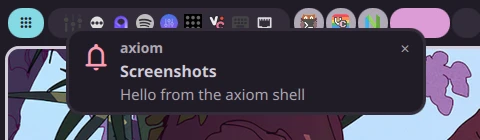
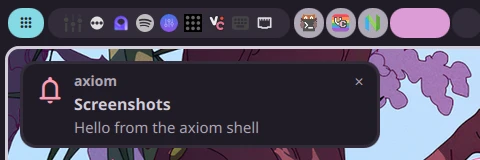
Update photos

diff --git a/shell/Notifications.qml b/shell/Notifications.qml
@@ -1,12 +1,14 @@
 import QtQuick
 import Quickshell
+import Quickshell.Wayland
 
 import qs.services
 import qs.config
 import qs.components.surfaces.notifications
 
-// Stacks incoming notifications as toasts near the top-left of the screen
-// (offset past the bar), driven by NotificationManager.showPopup. Dismissing a toast
+// Stacks incoming notifications as toasts from a corner of the primary
+// monitor's work area (NotificationsConfig), driven by
+// NotificationManager.showPopup. Dismissing a toast
 // only hides it — the notification stays tracked and remains visible/
 // actionable from the bell popout.
 Scope {
@@ -14,8 +16,6 @@ Scope {
 
   property int maxVisibleToasts: 5
   property int stackSpacing: 10
-  property int topOffset: Appearance.screenMargin + 20
-  property int leftOffset: Bar.extent + 20
   property int toastWidth: 360
   property int toastMaxHeight: 220
   property int dismissDuration: 5000
@@ -23,22 +23,50 @@ Scope {
 
   property var activeToasts: []
 
-  // Invisible anchor window the toast PopupWindows position relative to.
+  readonly property var screen: Quickshell.screens.find(s => s.name === General.primaryMonitor) ?? Quickshell.screens[0] ?? null
+
+  // Invisible anchor window the toast PopupWindows position relative to,
+  // in the chosen corner of the work area. Normal exclusion with no zone of
+  // its own keeps it inside the space the bars, the border (and any other
+  // app's panels) reserve, as OverlayPanel does, so the gaps are measured
+  // from whatever is at each edge. A transparent bar reserves Hyprland's
+  // gaps_out less than it draws (see BarPanel) and shows only its widgets,
+  // `inset` inside its window: the gap starts at their inner edge instead.
+  readonly property var _edges: Bar.edgesFor(root.screen)
+  function _edgeGap(side, gap) {
+    const bar = root._edges[side];
+    if (bar?.background !== "transparent")
+      return gap;
+    return gap + (HyprlandManager.gapsOut[side] ?? 0) - (bar.inset ?? 0);
+  }
+
   PanelWindow {
     id: anchorPanel
     visible: true
+    screen: root.screen
 
     implicitWidth: 1
     implicitHeight: 1
 
     anchors {
-      top: true
-      left: true
+      top: NotificationsConfig.top
+      bottom: !NotificationsConfig.top
+      left: NotificationsConfig.left
+      right: !NotificationsConfig.left
+    }
+    margins {
+      top: root._edgeGap("top", NotificationsConfig.gapTop)
+      bottom: root._edgeGap("bottom", NotificationsConfig.gapBottom)
+      left: root._edgeGap("left", NotificationsConfig.gapLeft)
+      right: root._edgeGap("right", NotificationsConfig.gapRight)
     }
 
     color: "transparent"
     focusable: false
-    exclusionMode: ExclusionMode.Ignore
+    WlrLayershell.layer: WlrLayer.Overlay
+    WlrLayershell.namespace: "axiom-notifications"
+    exclusionMode: ExclusionMode.Normal
+    exclusiveZone: 0
 
     // Where NotificationManager renders images to cache them: grabbing
     // needs an item in a window (items may lie outside this 1x1 one)
@@ -59,7 +87,8 @@ Scope {
       toastMaxHeight: root.toastMaxHeight
       dismissDuration: root.dismissDuration
       dragDismissThreshold: root.dragDismissThreshold
-      leftOffset: root.leftOffset
+      alignRight: !NotificationsConfig.left
+      fromBottom: !NotificationsConfig.top
     }
   }
 
@@ -109,7 +138,7 @@ Scope {
   }
 
   function calculateTargetY(index) {
-    let y = topOffset;
+    let y = 0;
     for (let i = 0; i < index && i < activeToasts.length; i++) {
       y += activeToasts[i].implicitHeight + stackSpacing;
     }

diff --git a/services/ThemeManager.qml b/services/ThemeManager.qml
@@ -78,7 +78,8 @@ QtObject {
   }
 
   // Shows the configured wallpaper on every screen without saving anything,
-  // for when the config changed under them (a restored snapshot).
+  // for when the config changed under them (a restored snapshot), and
+  // brings a generated theme in line with it.
   function applyWallpapers() {
     for (const screen of Quickshell.screens) {
       const url = Appearance.wallpaperFor(screen.name);
@@ -86,11 +87,32 @@ QtObject {
         continue;
       Quickshell.execDetached([Paths.scriptsPath + "setWallpaper.sh", url.replace("file://", ""), screen.name, screen.name === General.primaryMonitor ? "1" : "0"]);
     }
+    syncGeneratedTheme();
   }
+
+  // Generated themes are named by backend, not wallpaper, so each run
+  // overwrites the last and a config only records the theme's name. When
+  // the active one was made from another wallpaper than the configured one
+  // (a snapshot restored over a newer generation), generate it again: the
+  // file watch then reloads the colors and runs the integrations.
+  function syncGeneratedTheme() {
+    if (!Appearance.theme.startsWith("generated/") || !Appearance.wallpaper)
+      return;
+    const wanted = decodeURIComponent(Appearance.wallpaper.replace("file://", ""));
+    if (root.currentTheme?.generated?.wallpaper === wanted)
+      return;
+    console.log("[ThemeManager] Generated theme is from", root.currentTheme?.generated?.wallpaper ?? "no wallpaper", "- regenerating for", wanted);
+    generateThemesFromWallpaper(Appearance.wallpaper);
+  }
+
+  // A request made while a run is going replaces any earlier one and runs
+  // after it, so the last wallpaper asked for is the one generated
+  property string _pendingGeneration: ""
 
   function generateThemesFromWallpaper(wallpaperUrl) {
     if (isGenerating) {
-      console.log("[ThemeManager] Generation already in progress.");
+      console.log("[ThemeManager] Generation already in progress; queued:", wallpaperUrl.toString());
+      root._pendingGeneration = wallpaperUrl.toString();
       return;
     }
     console.log("[ThemeManager] Starting generation process for:", wallpaperUrl.toString());
@@ -327,13 +349,17 @@ QtObject {
       if (exitStatus !== 0 || exitCode !== 0) {
         console.error("[ThemeManager] Theme generation failed.", errors);
         root.generationFailed(errors);
-        return;
+      } else {
+        // Some backends failed, or the venv was set up
+        if (errors)
+          console.warn("[ThemeManager] generate_theme.py:", errors);
+        console.log("[ThemeManager] Theme generation finished successfully.");
+        root._reloadAllThemes();
       }
-      // Some backends failed, or the venv was set up
-      if (errors)
-        console.warn("[ThemeManager] generate_theme.py:", errors);
-      console.log("[ThemeManager] Theme generation finished successfully.");
-      root._reloadAllThemes();
+      const next = root._pendingGeneration;
+      root._pendingGeneration = "";
+      if (next)
+        Qt.callLater(() => root.generateThemesFromWallpaper(next));
     }
   }
 

diff --git a/components/surfaces/notifications/NotificationToast.qml b/components/surfaces/notifications/NotificationToast.qml
@@ -19,8 +19,12 @@ PopupWindow {
   property int toastMaxHeight: 220
   property int dismissDuration: 5000
   property real dragDismissThreshold: 150
-  property int leftOffset: 20
-  property int targetY: 20
+  // The corner it stacks from: the anchor window is a 1px point there, so
+  // a right-hand toast ends at it and a bottom one stacks upwards from it
+  property bool alignRight: false
+  property bool fromBottom: false
+  // Distance from the corner along the stack
+  property int targetY: 0
 
   signal dismissed
 
@@ -31,12 +35,14 @@ PopupWindow {
   color: "transparent"
 
   anchor.window: anchorWindow
+  // Placed exactly: the compositor mustn't slide it back on screen
+  anchor.adjustment: PopupAdjustment.None
+  anchor.rect.x: alignRight ? 1 - implicitWidth : 0
+  anchor.rect.y: fromBottom ? 1 - targetY - implicitHeight : targetY
+  anchor.rect.width: implicitWidth
+  anchor.rect.height: implicitHeight
 
   Component.onCompleted: {
-    anchor.rect.x = leftOffset;
-    anchor.rect.y = targetY;
-    anchor.rect.width = implicitWidth;
-    anchor.rect.height = implicitHeight;
     visible = true;
     slideIn.start();
   }
@@ -45,7 +51,6 @@ PopupWindow {
   // reads fine since it's accompanied by other toasts sliding at once.
   function updatePosition(newTargetY) {
     targetY = newTargetY;
-    anchor.rect.y = targetY;
   }
 
   // Only hides the toast — the notification stays tracked so it's still
@@ -61,7 +66,7 @@ PopupWindow {
     NumberAnimation {
       target: card
       property: "y"
-      from: -16
+      from: root.fromBottom ? 16 : -16
       to: 0
       duration: Appearance.animNormal
       easing.type: Easing.OutCubic

diff --git a/config/NotificationsConfig.qml b/config/NotificationsConfig.qml
@@ -1,0 +1,22 @@
+pragma Singleton
+import QtQuick
+import qs.services
+
+// Reader for the Notifications section (where toasts appear). Named
+// NotificationsConfig because `Notifications` is a surface, module and bar
+// widget type.
+QtObject {
+  readonly property var _c: ConfigManager.config.Notifications
+
+  // "topLeft" | "topRight" | "bottomLeft" | "bottomRight"
+  readonly property string position: _c.position
+  readonly property bool top: position === "topLeft" || position === "topRight"
+  readonly property bool left: position === "topLeft" || position === "bottomLeft"
+
+  // Gaps from the work area's edges, per side (only the corner's two apply)
+  readonly property bool evenGaps: _c.evenGaps
+  readonly property int gapTop: evenGaps ? _c.gap : _c.gapTop
+  readonly property int gapBottom: evenGaps ? _c.gap : _c.gapBottom
+  readonly property int gapLeft: evenGaps ? _c.gap : _c.gapLeft
+  readonly property int gapRight: evenGaps ? _c.gap : _c.gapRight
+}

diff --git a/CLAUDE.md b/CLAUDE.md
@@ -93,7 +93,7 @@ Every file is `pragma Singleton QtObject` — one global instance per name, impo
 
 ### Config layer (`config/*.qml`)
 
-Also `pragma Singleton`, but these are typed config *readers*, not owners — one per config section, exposing `readonly property` values from `ConfigManager.config`. No `??` fallbacks: the schema defaults are already filled in. Readers: `General` (displayName, primaryMonitor, `monitors`/`screens`), `Appearance` (theme, font, shape, motion tokens), `Widget`, `Bar` (from `Bars`; the first bar is primary), `PopoutConfig` (open/dismiss delays, edge trigger size — shared by bar and edge popouts), `OSDConfig` (volume OSD: edge, position, orientation, timeout, tracked apps), `LauncherConfig` (launcher placement, size and providers), `OverlayConfig` (views + card-grid constants), `IconConfig`, `ChatConfig`, `ThemeIntegrations`, plus `Paths` (derived filesystem paths from `$HOME` / `Quickshell.shellDir`, not configurable) and `Theme`. Readers whose section name collides with a type get a `Config` suffix (`Popouts`, `Overlay`, `Icons`, `OSD`, `Launcher`). UI code should read colors/settings from these (`Theme.background`, `Widget.padding`, `Bar.extent`) rather than reaching into `ConfigManager.config` directly.
+Also `pragma Singleton`, but these are typed config *readers*, not owners — one per config section, exposing `readonly property` values from `ConfigManager.config`. No `??` fallbacks: the schema defaults are already filled in. Readers: `General` (displayName, primaryMonitor, `monitors`/`screens`), `Appearance` (theme, font, shape, motion tokens), `Widget`, `Bar` (from `Bars`; the first bar is primary), `PopoutConfig` (open/dismiss delays, edge trigger size — shared by bar and edge popouts), `OSDConfig` (volume OSD: edge, position, orientation, timeout, tracked apps), `LauncherConfig` (launcher placement, size and providers), `NotificationsConfig` (the toasts' corner and gaps, measured inside the work area by an Overlay-layer anchor window with Normal exclusion, like `OverlayPanel`), `OverlayConfig` (views + card-grid constants), `IconConfig`, `ChatConfig`, `ThemeIntegrations`, plus `Paths` (derived filesystem paths from `$HOME` / `Quickshell.shellDir`, not configurable) and `Theme`. Readers whose section name collides with a type get a `Config` suffix (`Popouts`, `Overlay`, `Icons`, `OSD`, `Launcher`, `Notifications`). UI code should read colors/settings from these (`Theme.background`, `Widget.padding`, `Bar.extent`) rather than reaching into `ConfigManager.config` directly.
 
 **Animation timing is uniform:** every `duration:` uses `Appearance.animFast` / `animNormal` / `animSlow` (derived from `Appearance.motion.speed`, and 0 when `motion.enabled` is off), never a literal. Looping animations also gate `running` on `Appearance.animations`. Only behaviour timings (cursor blink, notification timeout, polling) stay as literals.
 

diff --git a/README.md b/README.md
@@ -134,7 +134,7 @@ The screenshots show two setups of the same shell, changed only through its sett
 </details>
 
 ### 🧩 The rest
-- 🔔 **Notifications:** toasts and a notification center.
+- 🔔 **Notifications:** toasts and a notification center. Toasts stack from any corner, with even or per-side gaps measured from the bar or border at each edge.
 - 🔊 **OSD:** follows the volume of the apps you choose.
 - 🚀 **Launcher:** searches apps (ranked by how often and how recently you use them), open windows, a calculator and the web. It runs shell commands and controls the shell with `/` commands.
 - ⏻ **Power menu:** your choice of session actions, in your order, driven by mouse or keyboard. Log out, reboot and power off ask you to confirm.
